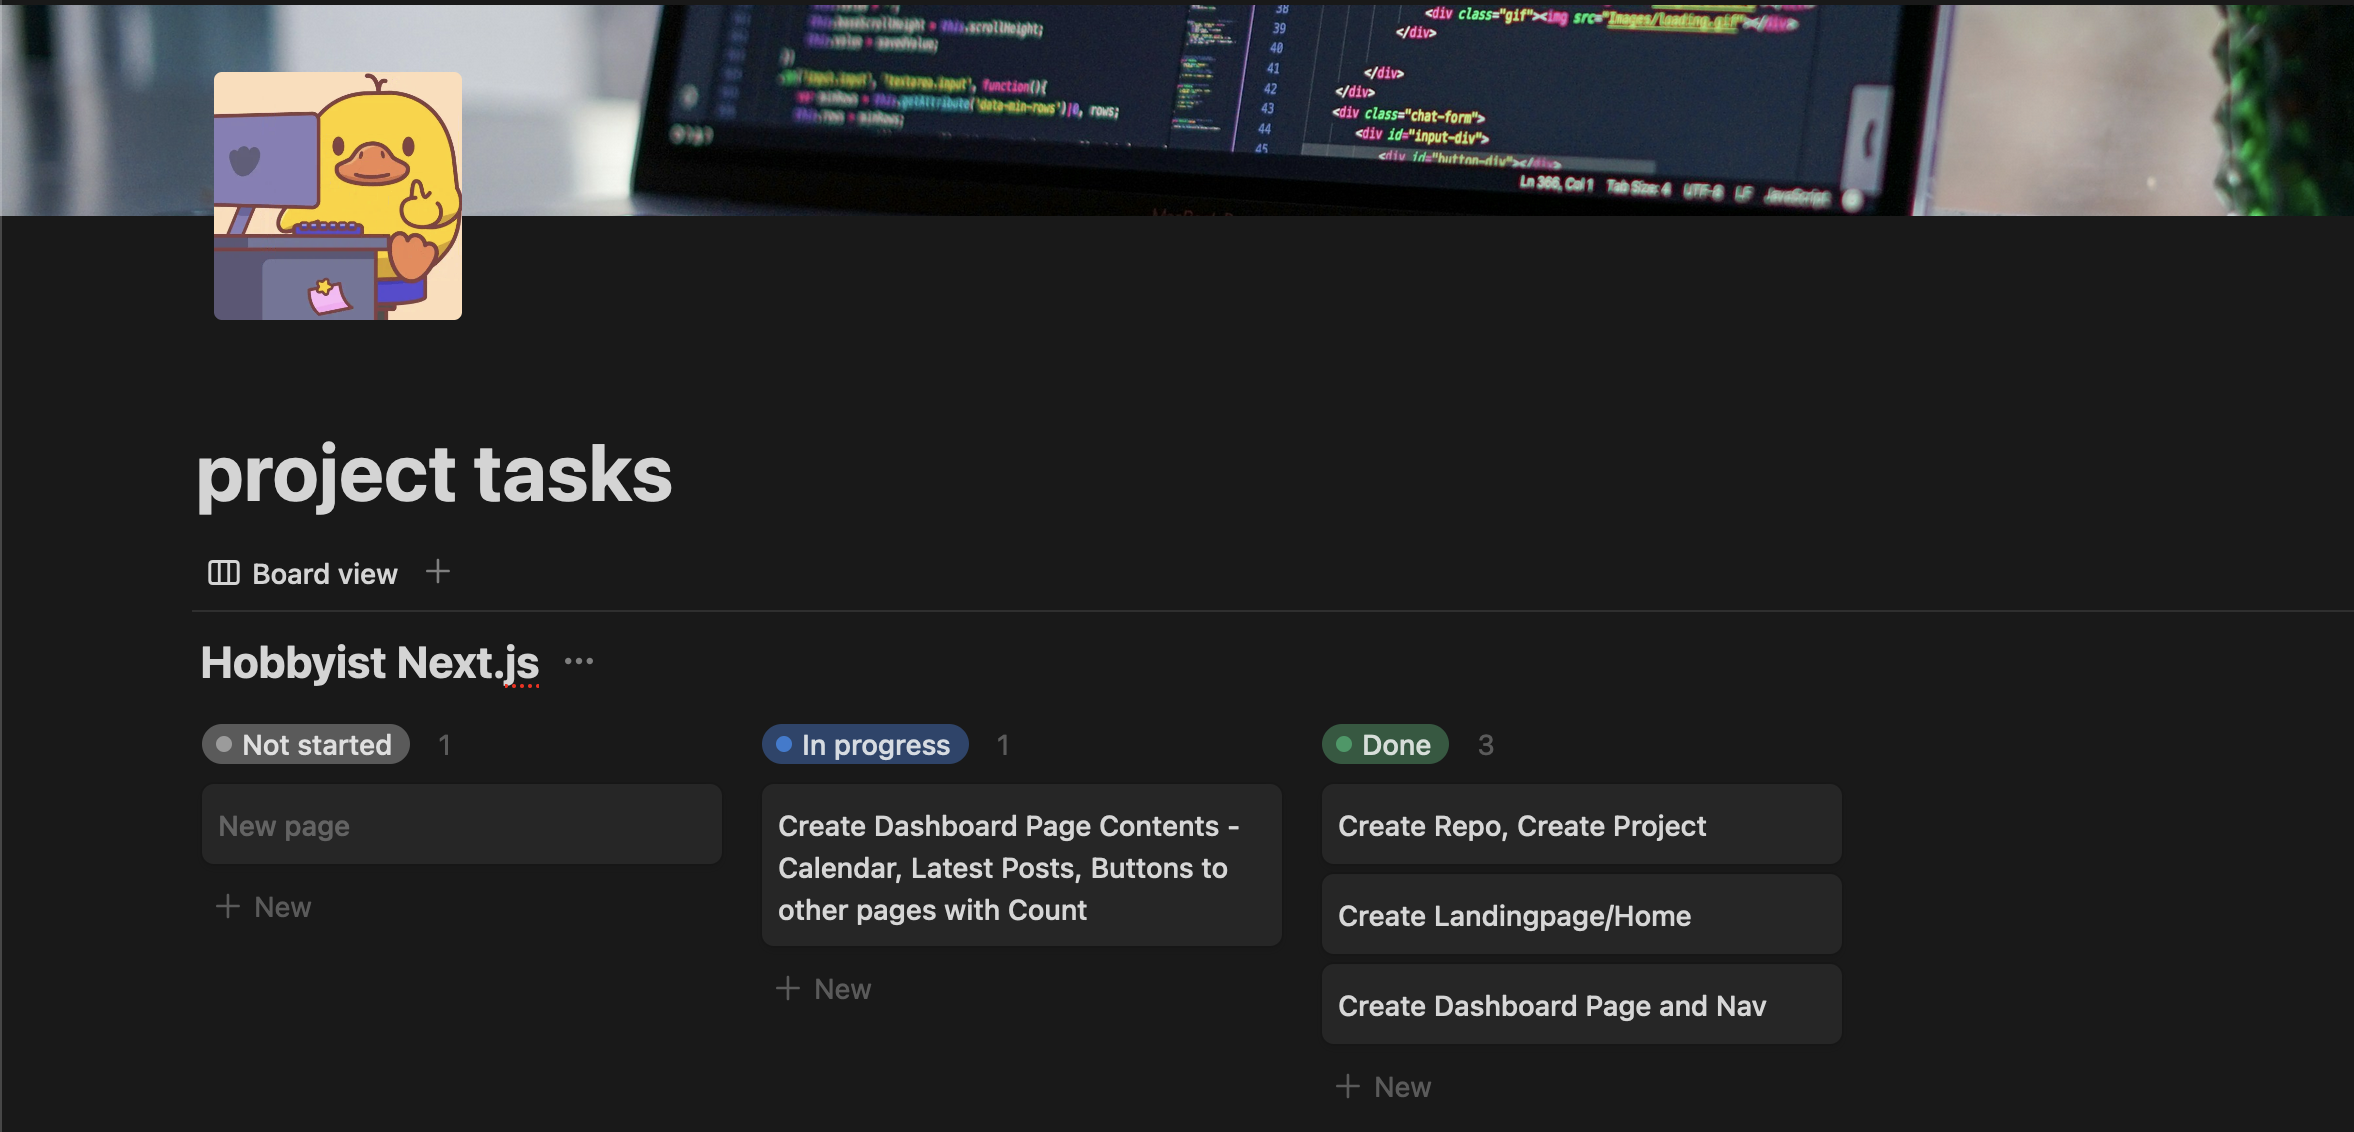
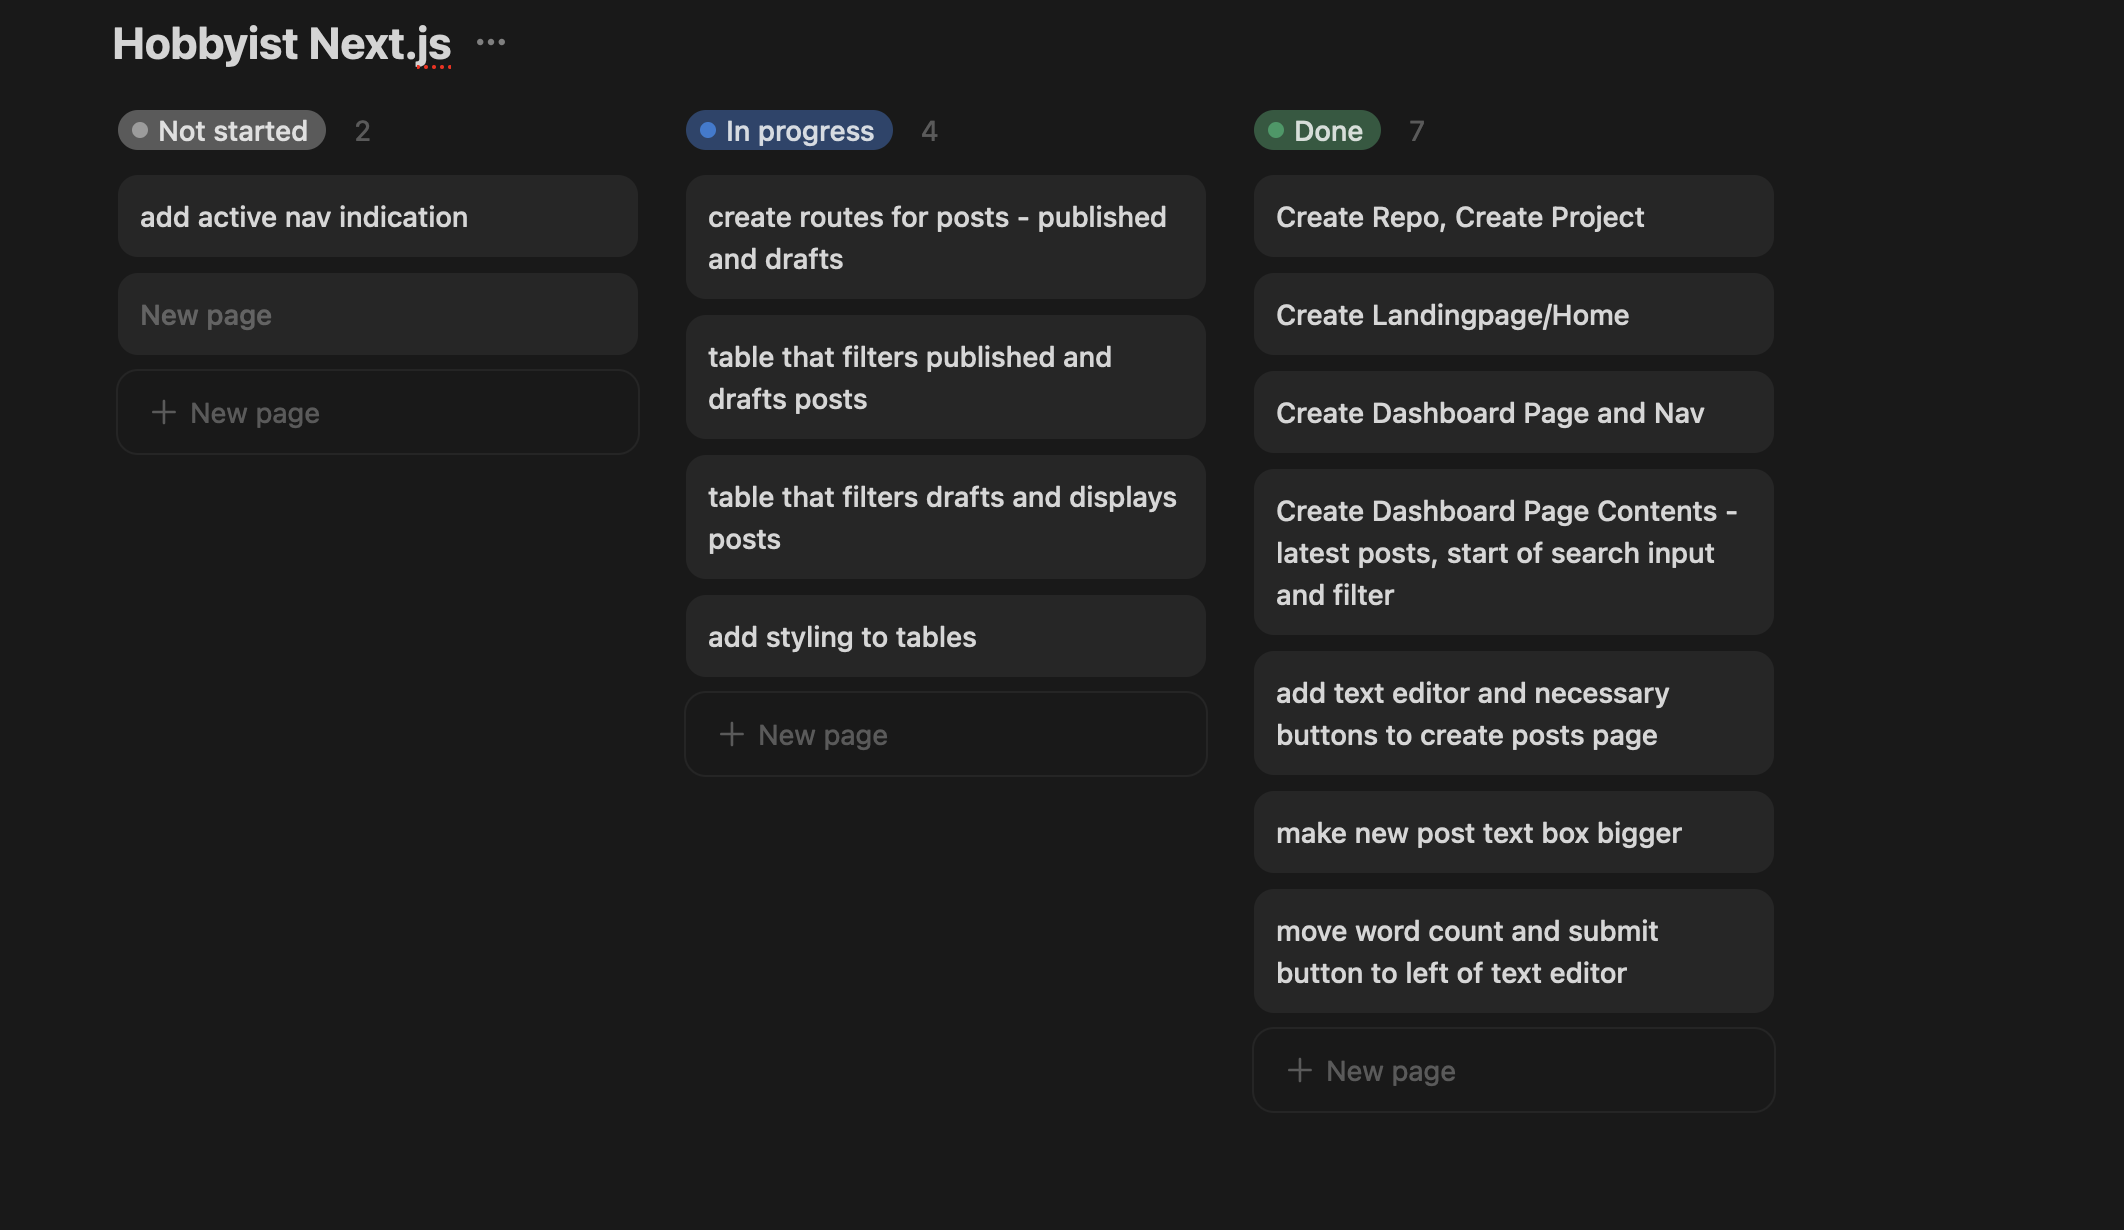
edited readme, added new task photo, added shadow to loginnav

diff --git a/src/ui/components/login-nav.tsx b/src/ui/components/login-nav.tsx
@@ -17,7 +17,7 @@ import {
 
 export default function Dashboard() {
   return (
-    <header className="bg-rose-400">
+    <header className="bg-rose-400 shadow-md">
       <nav className="flex items-center justify-between p-4 sm:p-6 lg:px-8 relative">
         <div className="flex lg:flex-1">
           <div className="flex items-center space-x-2 sm:space-x-4">

diff --git a/README.md b/README.md
@@ -2,13 +2,15 @@
 
 A blogging platform where users can blog about their hobbies, explore new ideas, and discover new passions.
 
+While the previous version was built using the MERN stack this version uses modern technologies and includes more fetaures for users to enjoy.
+
 This project is being built with Next.js, TypeScript, Tailwind, Zod, Shadcn, Prisma, Postgres, and Vercel.
 
 ## Deployed Project
 
 https://nextjs-hobbyist.vercel.app/
 
-## Project Tasks: https://nextjs-hobbyist.vercel.app/dashboard
+## Project Tasks:
 
 ![Project Tasks Image](/public/images/tasks.png)
 
@@ -25,3 +27,12 @@ pnpm dev
 # or
 bun dev
 ```
+
+## Resources
+
+- Tailwind UI components
+- Tiptap
+- Custom Rich Text Editor With Validation | Next.js 14 & React js | next js tailwind css [Code a Program](https://www.youtube.com/watch?v=wdG9Qa6ocYk)
+- Shadcn UI
+- Lucide React
+- ChatGPT
